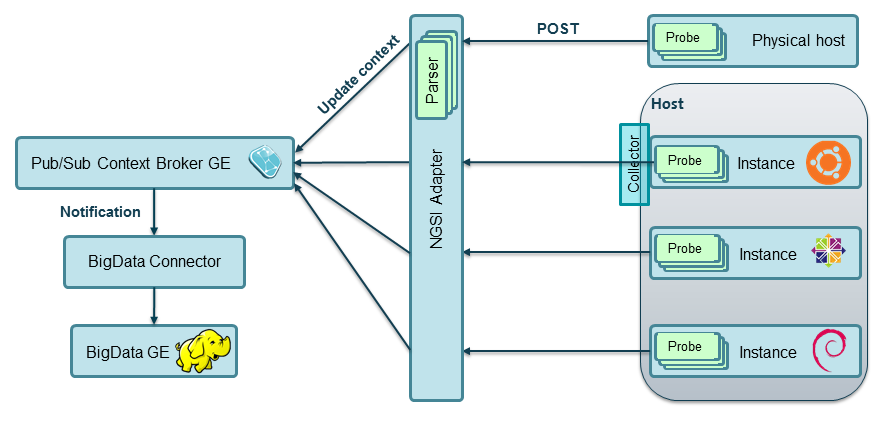
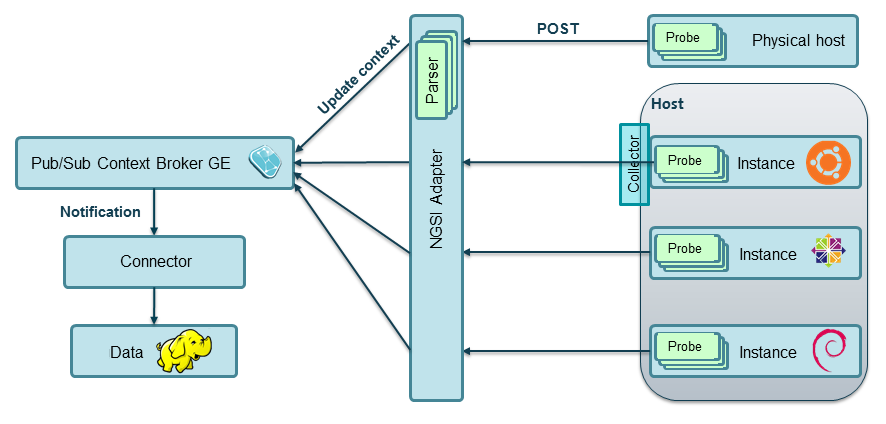
Update documentation

Changed region(s): [[0.1524, 0.7665, 0.2743, 0.8892], [0.0914, 0.5825, 0.2438, 0.6439], [0.0914, 0.7972, 0.1219, 0.8585]]

diff --git a/doc/admin_guide.rst b/doc/admin_guide.rst
@@ -27,8 +27,8 @@ different hosts, as depicted in the following figure:
       generate monitoring data.
    #. **Context Broker GE**, where monitoring data (expressed as "NGSI
       context updates") will be published.
-   #. **BigData GE**, for analysis of historical context data.
-   #. **BigData Connector** between Context Broker and BigData GEs.
+   #. **Hadoop**, for storing historical context data.
+   #. **Connector** between Context Broker and data storage.
 
 
 Installation of probes
@@ -38,8 +38,8 @@ Monitoring GE is agnostic to the framework used to gather monitoring data. It
 just assumes there are several probes collecting such data, which somehow will
 be forwarded to the adaptation layer (NGSI Adapter).
 
-It is up to the infrastructure owner which tool (like `Nagios`_, `Zabbix`_,
-`openNMS`_, `perfSONAR`_, etc.) is installed for this purpose.
+It is up to the infrastructure owner which tool (like Nagios_, Zabbix_,
+openNMS_, perfSONAR_, etc.) is installed for this purpose.
 
 Probes must "publish" their data to NGSI Adapter. Depending on the exact
 monitoring tool installed, a kind of *collector* has to be deployed in
@@ -47,7 +47,7 @@ order to send data to the adapter:
 
 -  **NGSI Event Broker** is an example specific for Nagios, implemented as
    a loadable module. Description and installation details can be found
-   `here <../ngsi_event_broker/README.rst>`__.
+   `here <../ngsi_event_broker/README.rst>`_.
 
 
 Installation of NGSI Adapter
@@ -77,7 +77,7 @@ automatically checked when installing the ``fiware-monitoring-ngsi-adapter``
 package. However, for manual installation please check
 \ https://github.com/joyent/node/wiki/Installing-Node.js-via-package-manager\ :
 
--  Installation in Ubuntu
+-  Manual installation of Node.js in Ubuntu
 
 .. code::
 
@@ -85,7 +85,7 @@ package. However, for manual installation please check
    $ sudo apt-get install nodejs
 
 
--  Installation in Debian (as root)
+-  Manual installation of Node.js in Debian (as root)
 
 .. code::
 
@@ -94,7 +94,8 @@ package. However, for manual installation please check
    # apt-get install nodejs nodejs-legacy
 
 
--  Installation in CentOS (requires EPEL: Extra Packages for Enterprise Linux)
+-  Manual installation of Node.js in CentOS (requires EPEL: Extra Packages
+   for Enterprise Linux)
 
 .. code::
 
@@ -105,15 +106,16 @@ package. However, for manual installation please check
 Downloads
 ~~~~~~~~~
 
-Package for Ubuntu 12.04 LTS is available for download. Please refer to the
-`download`__ section of FIWARE Catalogue. You can use tools such as ``gdebi``
-to install the package:
+Packages for Ubuntu 12.04 LTS and CentOS 6.3 are available for download. Please
+refer to the download__ section of FIWARE Catalogue. You can use tools such as
+``gdebi`` or ``rpm`` to install the downloaded files:
 
 __ `Catalogue - Monitoring download`_
 
 .. code::
 
-   $ sudo gdebi fiware-monitoring-ngsi-adapter_X.Y.Z_all.deb
+   ubuntu$ sudo gdebi fiware-monitoring-ngsi-adapter_X.Y.Z_all.deb
+   centos$ sudo rpm -i fiware-monitoring-ngsi-adapter-X.Y.Z-N.noarch.rpm
 
 For the latest version, please download zip from
 \ https://github.com/telefonicaid/fiware-monitoring/archive/master.zip\ .
@@ -122,7 +124,8 @@ component.
 
 .. code::
 
-   $ unzip master.zip
+   $ unzip fiware-monitoring-master.zip
+   $ cd fiware-monitoring-master/
 
 
 Dependencies
@@ -154,23 +157,14 @@ for installation details.
 __ `Orion - Admin guide`_
 
 
-Installation of BigData GE
---------------------------
-
-Please refer to `BigData Analysis - Installation and Administration Guide`__
-for installation details.
-
-__ `Cosmos - Admin guide`_
-
-
 Installation of the connector
 -----------------------------
 
-This component subscribes to changes at Context Broker and writes them into
-BigData GE storage. Historically the **ngsi2cosmos** connector implementation
-has been used (installation details `here`__), although from March 2014 this
-component is deprecated and a brand new **Cygnus** implementation (installation
-details `here`__) is available.
+This component subscribes to changes at Context Broker and writes data into a
+distributed filesystem storage (usually HDFS from Hadoop_). Historically the
+**ngsi2cosmos** connector implementation has been used (installation details
+here__), although from March 2014 this component is deprecated and a brand new
+**Cygnus** implementation (installation details here__) is available.
 
 __ `ngsi2cosmos`_
 __ `Cygnus`_
@@ -181,7 +175,7 @@ Running the monitoring components
 
 As stated before, there are a number of distributed components involved in the
 monitoring. Please refer to their respective installation manuals for execution
-details (this applies to probes & monitoring software, Context Broker, BigData,
+details (this applies to probes & monitoring software, Context Broker, Hadoop,
 etc.). This section focuses on NGSI Adapter specific instructions.
 
 
@@ -290,7 +284,7 @@ End to End testing
    time=... | lvl=INFO | trans=ci2627bx00000b42g8m2pxw3z | op=UpdateContext | msg=Request to ContextBroker at http://cbhost:1026/...
 
 
--  Finally, query Context Broker for new data (see details `here`__)
+-  Finally, query Context Broker for new data (see details here__)
 
 __ `Orion - queryContext`_
 
@@ -364,17 +358,15 @@ Remote Service Access
 Resource consumption
 --------------------
 
-Please refer to `Context Broker`__ and `BigData`__ resource consumption
-sections.
+Please refer to `Context Broker`__ resource consumption sections.
 
 __ `Resource consumption - Orion`_
-__ `Resource consumption - Cosmos`_
 
 
 I/O flows
 ---------
 
-Figure at `installation section <#Installation>`__ shows the I/O flows among
+Figure at `installation section <#Installation>`_ shows the I/O flows among
 the different monitoring components:
 
 -  Probes send requests to NGSI Adapter with raw monitoring data
@@ -384,20 +376,19 @@ the different monitoring components:
 
 -  Context Broker notifies Connector with every context change
 
--  Connector writes changes to BigData storage
+-  Connector writes changes to storage
 
 
 .. REFERENCES
 
 .. _Catalogue - Monitoring download: http://catalogue.fiware.org/enablers/monitoring-ge-tid-implementation/downloads
 .. _Resource consumption - Orion: https://forge.fiware.org/plugins/mediawiki/wiki/fiware/index.php/Publish/Subscribe_Broker_-_Orion_Context_Broker_-_Installation_and_Administration_Guide#Resource_consumption
-.. _Resource consumption - Cosmos: https://forge.fiware.org/plugins/mediawiki/wiki/fiware/index.php/BigData_Analysis_-_Installation_and_Administration_Guide#Resource_consumption
 .. _Orion - queryContext: https://forge.fiware.org/plugins/mediawiki/wiki/fiware/index.php/Publish/Subscribe_Broker_-_Orion_Context_Broker_-_User_and_Programmers_Guide#Query_Context_operation
 .. _Orion - Admin guide: https://forge.fiware.org/plugins/mediawiki/wiki/fiware/index.php/Publish/Subscribe_Broker_-_Orion_Context_Broker_-_Installation_and_Administration_Guide
-.. _Cosmos - Admin guide: https://forge.fiware.org/plugins/mediawiki/wiki/fiware/index.php/BigData_Analysis_-_Installation_and_Administration_Guide
 .. _ngsi2cosmos: https://github.com/telefonicaid/fiware-livedemoapp#ngsi2cosmos
 .. _Cygnus: https://github.com/telefonicaid/fiware-connectors/tree/develop/flume
 .. _Nagios: http://www.nagios.org/
 .. _Zabbix: http://www.zabbix.com/
 .. _openNMS: http://www.opennms.org/
 .. _perfSONAR: http://www.perfsonar.net/
+.. _Hadoop: http://hadoop.apache.org/

diff --git a/doc/user_guide.rst b/doc/user_guide.rst
@@ -64,7 +64,10 @@ the resources being monitored) using a pair <*entityId*,\ *entityType*>. This
 identification of the monitored resource has to be provided as the query
 parameters ``id`` and ``type``, respectively. The probe name included in
 the URL lets NGSI Adapter know the originating monitoring probe, therefore
-selecting the proper parser for it.
+selecting the proper parser for it. This API is fully described in
+`docs.fiwaremonitoring.apiary.io`__
+
+__ `Monitoring NGSI Adapter API`_
 
 Monitoring framework is expected to schedule the execution of probes and send
 the raw data been gathered to the NGSI Adapter. Depending on the tool that has
@@ -119,9 +122,9 @@ to the last updates of monitoring data available, but not to historic data.
 Monitoring API
 --------------
 
-Retrieval of data stored at the BigData GE is handled by the Query Manager
-component, whose API is described in `Monitoring Open RESTful API Specification
-(PRELIMINARY)`_ section.
+Retrieval of historical data stored at a distributed filesystem (e.g. Hadoop)
+is handled by the Query Manager component, whose API is described in
+`Monitoring Open RESTful API Specification (PRELIMINARY)`_ section.
 
 
 .. REFERENCES
@@ -130,3 +133,4 @@ component, whose API is described in `Monitoring Open RESTful API Specification
 .. _Open Specification: https://forge.fiware.org/plugins/mediawiki/wiki/fiware/index.php/FIWARE.OpenSpecification.Cloud.Monitoring
 .. _Context Broker Programmers Guide: https://forge.fiware.org/plugins/mediawiki/wiki/fiware/index.php/Publish/Subscribe_Broker_-_Orion_Context_Broker_-_User_and_Programmers_Guide#Programmers_Guide
 .. _Monitoring Open RESTful API Specification (PRELIMINARY): https://forge.fiware.org/plugins/mediawiki/wiki/fiware/index.php/Monitoring_Open_RESTful_API_Specification_(PRELIMINARY)
+.. _Monitoring NGSI Adapter API: http://docs.fiwaremonitoring.apiary.io/
